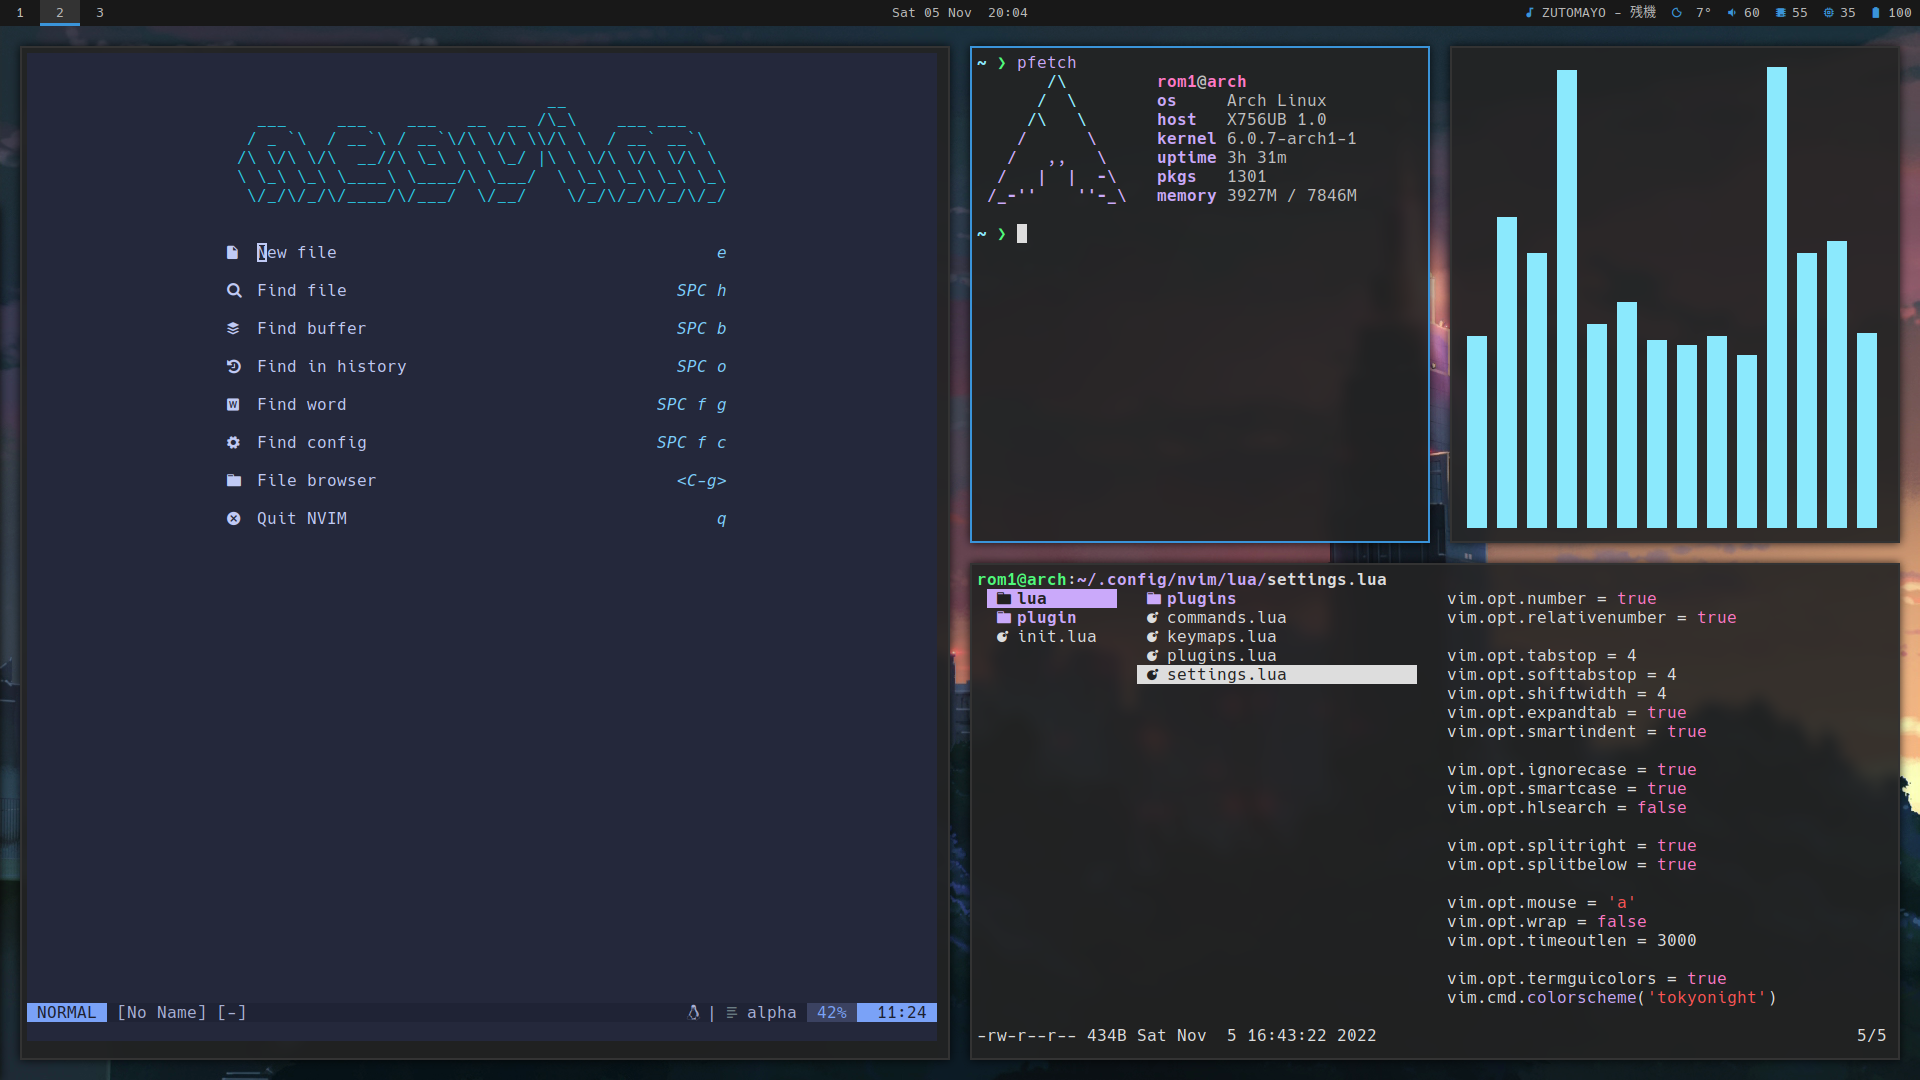
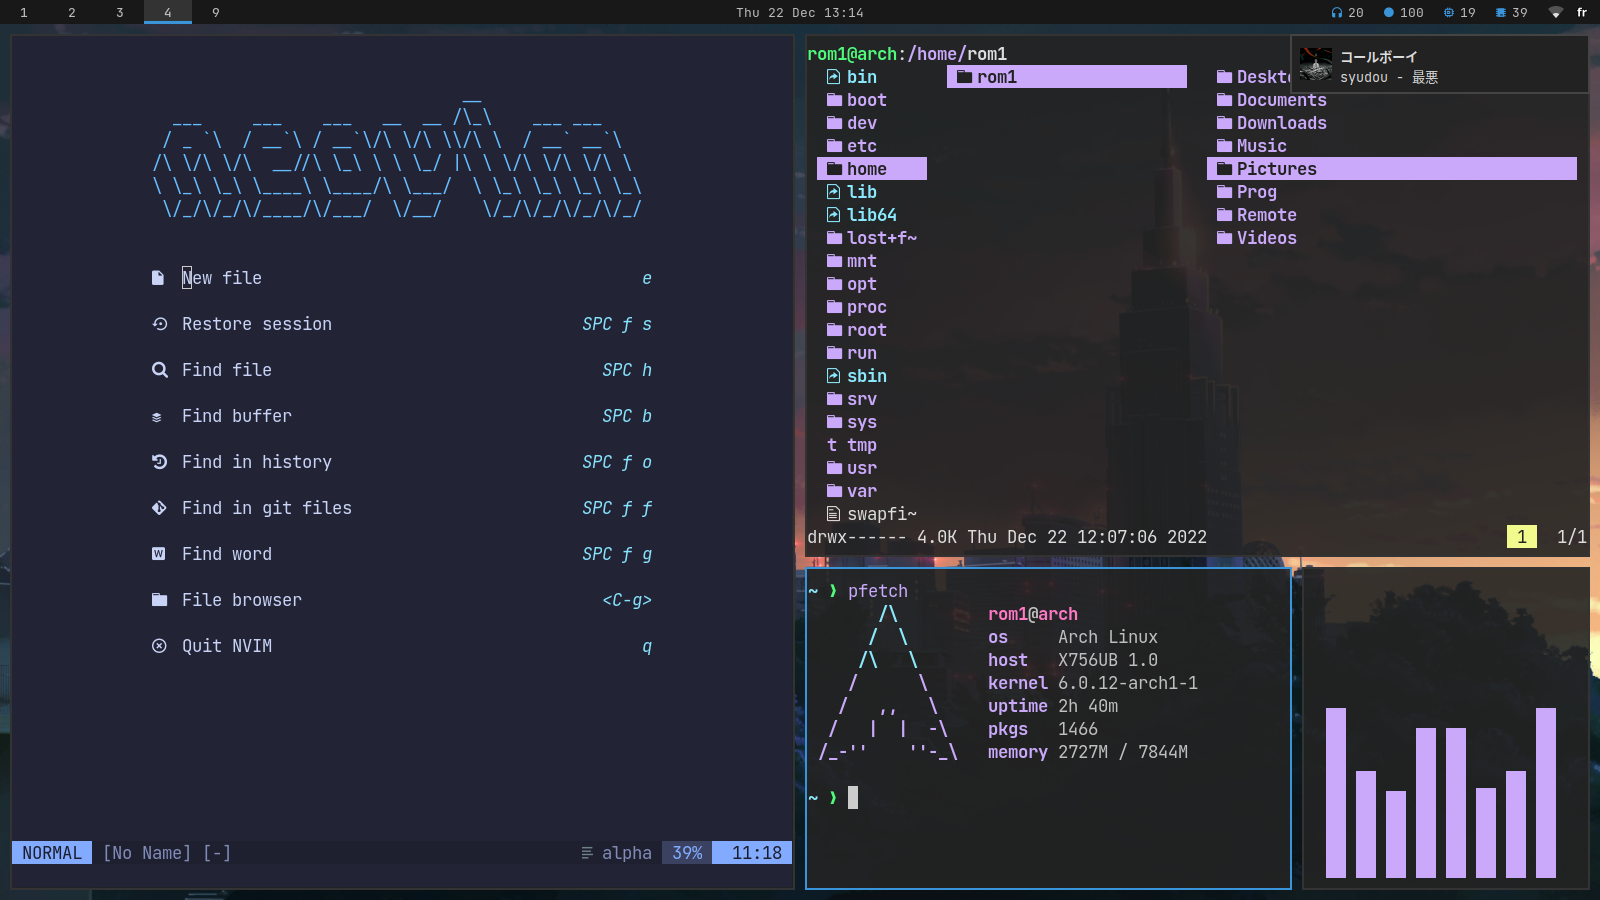
update readme

diff --git a/README.md b/README.md
@@ -5,17 +5,16 @@
 ## Config
 
 + Distribution : [Arch Linux](https://archlinux.org/)
-+ Display server : [Xorg](https://wiki.archlinux.org/title/xorg)
-+ Window manager : [i3](https://i3wm.org/)
-+ Status bar : [Polybar](https://github.com/polybar/polybar)
-+ Compositor : [picom](https://github.com/yshui/picom)
-+ Display manager : [LightDM](https://github.com/canonical/lightdm)
-+ Lock screen : [i3lock](https://github.com/i3/i3lock)
-+ Font : [Hack Nerd Font](https://github.com/ryanoasis/nerd-fonts)
++ Display server : [Wayland](https://wayland.freedesktop.org/)
++ Window manager : [Sway](https://swaywm.org/)
++ Status bar : [Waybar](https://github.com/Alexays/Waybar)
++ Display manager : [greetd](https://git.sr.ht/~kennylevinsen/greetd)
++ Lock screen : [swaylock](https://github.com/swaywm/swaylock)
++ Font : [JetBrainsMono Nerd Font](https://www.jetbrains.com/lp/mono/)
 + Gtk theme : [Orchis](https://github.com/vinceliuice/Orchis-theme)
 + Icon theme : [Tela](https://github.com/vinceliuice/Tela-icon-theme)
 + Cursor theme : [Vimix cursors](https://github.com/vinceliuice/Vimix-cursors)
-+ Terminal : [Alacritty](https://github.com/alacritty/alacritty)
++ Terminal : [kitty](https://sw.kovidgoyal.net/kitty/)
 + Shell : [fish](https://fishshell.com/)
 + Prompt : [Starship](https://starship.rs/)
 + Editor : [Neovim](https://neovim.io/)
@@ -26,9 +25,9 @@
 + Image viewer : [Viewnior](https://github.com/hellosiyan/Viewnior)
 + Media player : [mpv](https://mpv.io/)
 + Document viewer : [Evince](https://wiki.gnome.org/Apps/Evince)
-+ Notification daemon : [dunst](https://github.com/dunst-project/dunst)
-+ Input method : [Fcitx 5](https://fcitx-im.org/wiki/Fcitx_5)
-+ Clipboard manager : [Parcelitte](https://parcellite.sourceforge.net/)
++ Notification daemon : [mako](https://github.com/emersion/mako)
++ Input method : [Fcitx5](https://fcitx-im.org/wiki/Fcitx_5)
++ Clipboard manager : [Clipman](https://github.com/yory8/clipman)
 + Editor colorscheme : [TokyoNight](https://github.com/folke/tokyonight.nvim)
 + Wallpaper : [言の葉の庭](wallpaper.png)
 
@@ -40,21 +39,23 @@
 + [Lutris](https://lutris.net/) : game launcher
 + [Godot](https://godotengine.org/) : game engine
 + [Pinta](https://www.pinta-project.com/) : image editor
-+ [SimpleScreenRecorder](https://www.maartenbaert.be/simplescreenrecorder/) : screencast utility
-+ [Flameshot](https://github.com/flameshot-org/flameshot) : screenshot tool
++ [swappy](https://github.com/jtheoof/swappy) : screenshot editor
++ [grim](https://sr.ht/~emersion/grim/) : screenshot tool
++ [wf-recorder](https://github.com/ammen99/wf-recorder) : screen recorder
 + [Calibre](https://calibre-ebook.com/) : ebook reader and manager
 + [Qalculate](https://github.com/Qalculate/qalculate-gtk) : calculator
 + [yay](https://github.com/Jguer/yay) : AUR helper
 + [rsync](https://wiki.archlinux.org/title/rsync) : backups
-+ [nitrogen](https://github.com/l3ib/nitrogen) : wallpaper picker
 + [Gcolor3](https://www.hjdskes.nl/projects/gcolor3/) : color picker
 + [udiskie](https://github.com/coldfix/udiskie/) : automount disks and USB keys
++ [kanshi](https://sr.ht/~emersion/kanshi/) : automatic switch between display configs
++ [wdisplays](https://github.com/artizirk/wdisplays) : graphical display settings
++ [wshowkeys](https://git.sr.ht/~sircmpwn/wshowkeys) : show keys being typed on screen
 + [youtube-dl](https://github.com/ytdl-org/youtube-dl) : download youtube videos
 + [ani-cli](https://github.com/pystardust/ani-cli) : cli tool to watch anime
 + [gallery-dl](https://github.com/mikf/gallery-dl) : download images from imageboards
 + [Anki](https://apps.ankiweb.net/) : best flashcard app
 + [btop](https://github.com/aristocratos/btop) : ressource monitor
-+ [xbanish](https://github.com/jcs/xbanish) : hide this useless mouse cursor
 + [trash-cli](https://github.com/andreafrancia/trash-cli) : trash management
 + [playerctl](https://github.com/altdesktop/playerctl) : controll media players from the command line
 + [dust](https://github.com/bootandy/dust) : see what is taking place on the disk
@@ -74,6 +75,7 @@
 ## More resources
 
 + [Arch Wiki](https://wiki.archlinux.org/) : the bible
++ [i3 Migration Guide](https://github.com/swaywm/sway/wiki/i3-Migration-Guide) : good list of basic Wayland apps
 + [How Linux Works](https://nostarch.com/howlinuxworks3) : very complete book on Linux theory
 + [TechHunt](https://www.youtube.com/c/TechHutHD) : more software reviews
 + [DJ Ware](https://www.youtube.com/c/DJWareCG) : deep dives into Linux technologies
